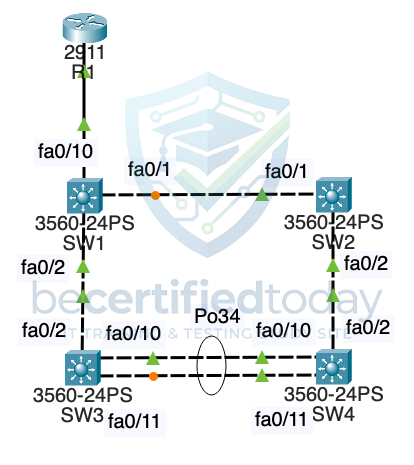
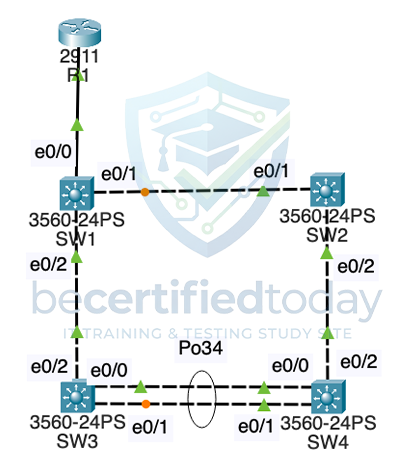
Update native VLAN/LACP lab topology image and sizing.
Replace the native VLAN/LACP topology asset with the latest diagram and align the lab page image dimensions so the new topology renders with the correct intrinsic aspect ratio.

diff --git a/public/CCNA-Study/CCNA_labs/cli-lab-native_vlan_lacp.html b/public/CCNA-Study/CCNA_labs/cli-lab-native_vlan_lacp.html
@@ -571,7 +571,7 @@
           <img
             src="/CCNA-Study/CCNA_labs/native-vlan-lacp-topology.png"
             width="414"
-            height="497"
+            height="465"
             alt="Native VLAN and LACP topology with R1, SW1, SW2, SW3, SW4, and port-channel links."
             decoding="async"
           />